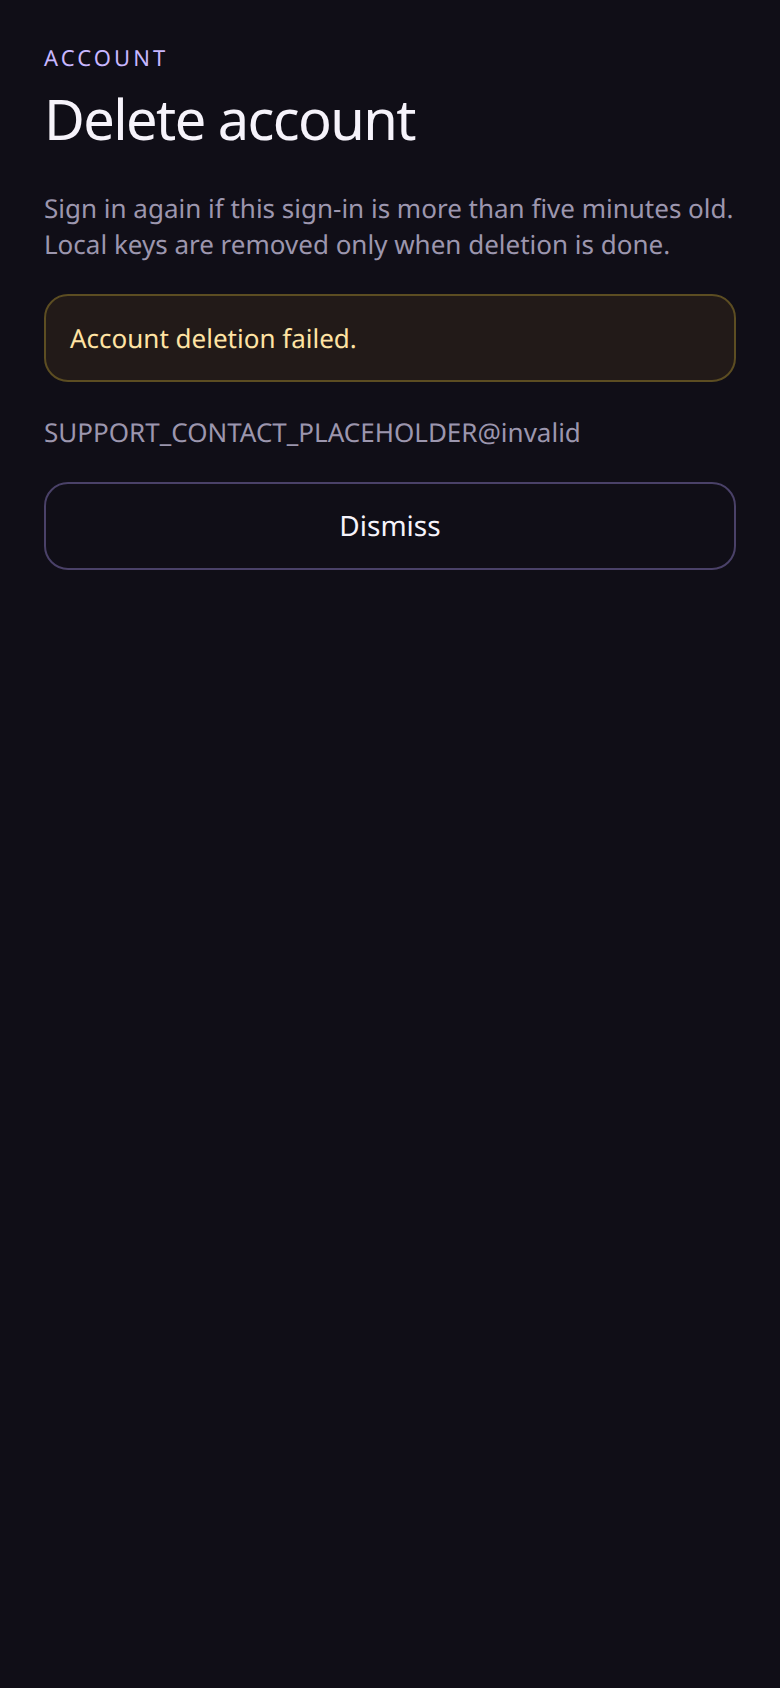
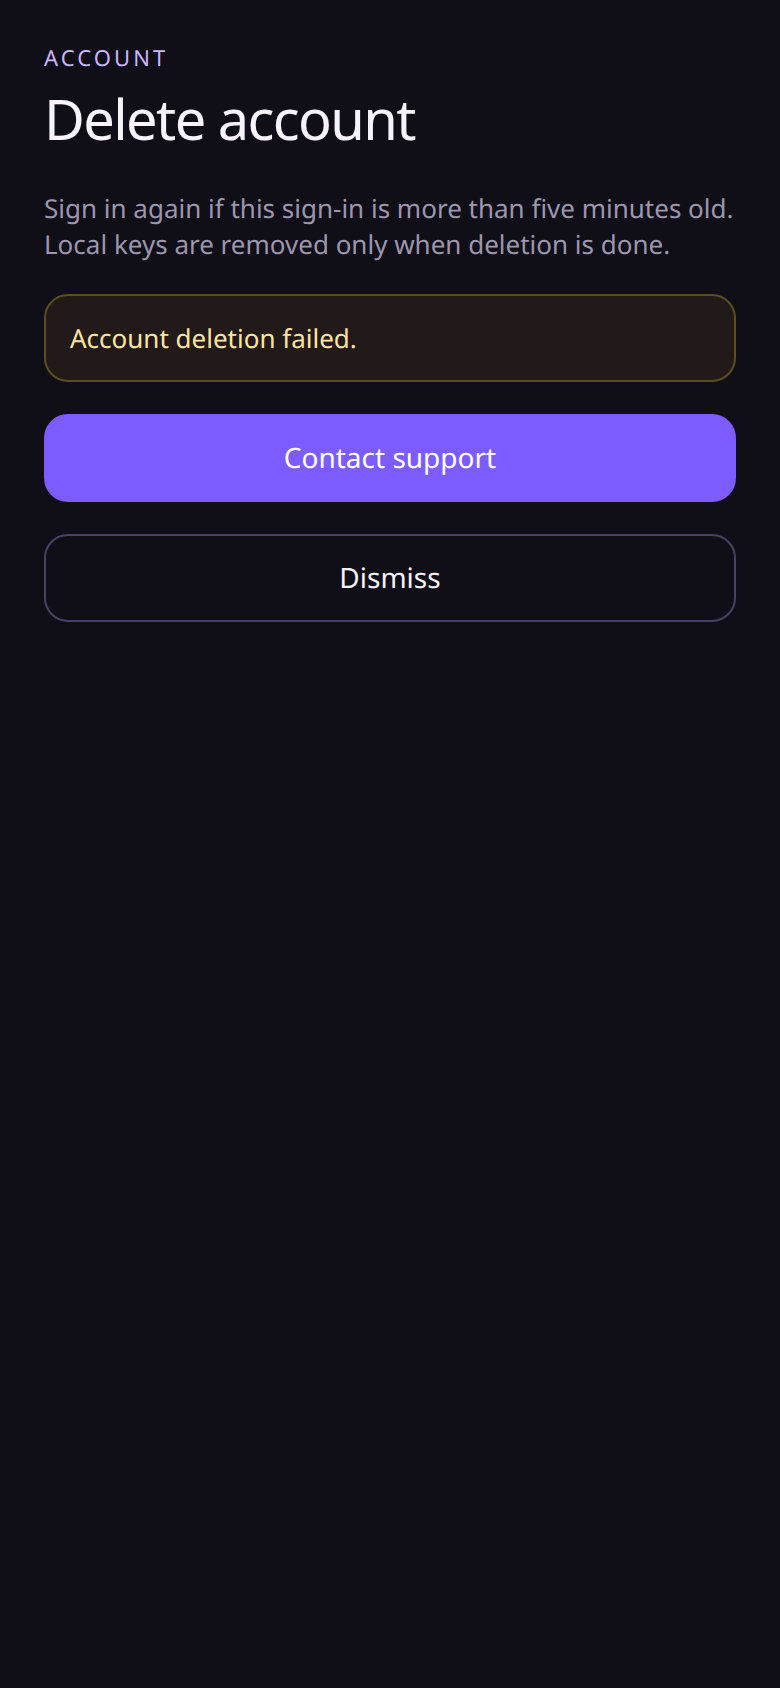
feat: offer Contact support when deletion cannot be retried
The non-retryable screen asks the user to contact support, opens a mailto or URL without showing the placeholder, and keeps Dismiss as the outline action.

Changed region(s): [[0.0308, 0.2464, 0.9538, 0.3697]]

diff --git a/apps/mobile/src/screens.tsx b/apps/mobile/src/screens.tsx
@@ -20,7 +20,7 @@ import {
 } from "@gendragoon/core";
 import { colors, space, type as typeScale } from "@gendragoon/ui/theme";
 import { useState } from "react";
-import { StyleSheet, Text, TextInput, View } from "react-native";
+import { Linking, StyleSheet, Text, TextInput, View } from "react-native";
 import {
   clearSessionOnPollAuthFailure,
   clientRetriesDeletion,
@@ -33,7 +33,7 @@ import {
 import { SAME_ACCOUNT_MESSAGE, sessionMaySwap } from "./account/session";
 import { byoServerFlowReady } from "./byoReady";
 import { ENCRYPTED_WORKSPACE_ENABLED } from "./flags";
-import { SUPPORT_CONTACT } from "./support";
+import { SUPPORT_CONTACT, supportContactTarget } from "./support";
 import { Banner, Button, Screen, Title, cardStyle } from "./ui";
 
 export function workspacesWithUnpaid<T extends { id: string }>(
@@ -401,28 +401,38 @@ interface DeletionNotice {
   reauth: boolean;
   progress: boolean;
   support: boolean;
+  hideSignInHelp: boolean;
+  jobId?: string;
 }
 
 function deletionNotice(kind: "progress" | "retry" | "dismiss" | "reauth" | "missing" | "offline" | "not-retryable"): DeletionNotice {
   if (kind === "progress") {
-    return { message: "Deletion is running.", retry: false, dismiss: false, reauth: false, progress: true, support: false };
+    return { message: "Deletion is running.", retry: false, dismiss: false, reauth: false, progress: true, support: false, hideSignInHelp: false };
   }
   if (kind === "retry") {
-    return { message: "Deletion didn't finish. Retry picks up where it stopped.", retry: true, dismiss: false, reauth: false, progress: false, support: false };
+    return { message: "Deletion didn't finish. Retry picks up where it stopped.", retry: true, dismiss: false, reauth: false, progress: false, support: false, hideSignInHelp: false };
   }
   if (kind === "dismiss") {
-    return { message: "Account deletion failed.", retry: false, dismiss: true, reauth: false, progress: false, support: true };
+    return { message: "Account deletion failed.", retry: false, dismiss: true, reauth: false, progress: false, support: true, hideSignInHelp: false };
   }
   if (kind === "not-retryable") {
-    return { message: "This deletion cannot be retried.", retry: false, dismiss: true, reauth: false, progress: false, support: true };
+    return {
+      message: "We couldn't finish deleting your account. Contact support and we'll complete it for you.",
+      retry: false,
+      dismiss: true,
+      reauth: false,
+      progress: false,
+      support: true,
+      hideSignInHelp: true,
+    };
   }
   if (kind === "reauth") {
-    return { message: "Sign in again. Your last sign-in is older than 5 minutes.", retry: false, dismiss: false, reauth: true, progress: false, support: false };
+    return { message: "Sign in again. Your last sign-in is older than 5 minutes.", retry: false, dismiss: false, reauth: true, progress: false, support: false, hideSignInHelp: false };
   }
   if (kind === "offline") {
-    return { message: "Could not reach the server. Try again.", retry: true, dismiss: true, reauth: false, progress: false, support: false };
+    return { message: "Could not reach the server. Try again.", retry: true, dismiss: true, reauth: false, progress: false, support: false, hideSignInHelp: false };
   }
-  return { message: "The deletion status could not be loaded.", retry: true, dismiss: true, reauth: false, progress: false, support: false };
+  return { message: "The deletion status could not be loaded.", retry: true, dismiss: true, reauth: false, progress: false, support: false, hideSignInHelp: false };
 }
 
 export function DeleteAccountScreen(props: {
@@ -439,13 +449,17 @@ export function DeleteAccountScreen(props: {
   onClearSession?: () => void;
   /** Static frame for screenshots. Live deletion ignores it. */
   frame?: DeletionFrame;
+  /** Job id used in the support mail subject for a static frame. */
+  jobId?: string;
 }) {
   const [step, setStep] = useState<"review" | "confirm">(props.frame === "confirm" ? "confirm" : "review");
-  const [notice, setNotice] = useState<DeletionNotice | null>(props.frame && props.frame !== "confirm" ? deletionNotice(props.frame) : null);
+  const [notice, setNotice] = useState<DeletionNotice | null>(
+    props.frame && props.frame !== "confirm" ? { ...deletionNotice(props.frame), jobId: props.jobId } : null,
+  );
   const blocked = props.activeTransfers > 0;
   function showFailure(error: unknown) {
     if (isDeletionNotRetryableError(error)) {
-      setNotice(deletionNotice("not-retryable"));
+      setNotice({ ...deletionNotice("not-retryable"), jobId: error.jobId });
       return;
     }
     const action = deletionSessionAction(error);
@@ -475,7 +489,7 @@ export function DeleteAccountScreen(props: {
       }
       if (status.status === "failed") {
         const retryable = (status as { retryable?: boolean }).retryable === true;
-        setNotice(deletionNotice(retryable ? "retry" : "dismiss"));
+        setNotice({ ...deletionNotice(retryable ? "retry" : "dismiss"), jobId: status.jobId });
         return;
       }
       props.onError("Account deletion did not finish. Local keys were kept.");
@@ -503,15 +517,28 @@ export function DeleteAccountScreen(props: {
   return (
     <Screen testID="delete-account-screen">
       <Title kicker="Account">Delete account</Title>
-      <Text style={styles.help}>Sign in again if this sign-in is more than five minutes old. Local keys are removed only when deletion is done.</Text>
+      {notice?.hideSignInHelp ? null : (
+        <Text testID="deletion-signin-help" style={styles.help}>Sign in again if this sign-in is more than five minutes old. Local keys are removed only when deletion is done.</Text>
+      )}
       {blocked ? <Banner>Delete account is disabled during transfers.</Banner> : null}
       {notice ? (
         <Banner testID={notice.progress ? "deletion-progress" : "deletion-error"}>{notice.message}</Banner>
       ) : null}
+      {notice?.support && __DEV__ && SUPPORT_CONTACT.isPlaceholder ? (
+        <Text testID="support-placeholder-note" style={styles.devNote}>placeholder contact</Text>
+      ) : null}
       {notice?.retry ? <Button label="Retry" testID="deletion-retry" onPress={() => void retry()} /> : null}
       {notice?.reauth ? <Button label="Sign in again" testID="deletion-reauth" onPress={props.onReauth} /> : null}
       {notice?.support ? (
-        <Text accessibilityRole="link" testID="deletion-support" style={styles.help}>{SUPPORT_CONTACT.value}</Text>
+        <Button
+          label="Contact support"
+          testID="contact-support"
+          accessibilityLabel="Contact support"
+          onPress={() => {
+            const jobId = notice.jobId ?? "";
+            void Linking.openURL(supportContactTarget(SUPPORT_CONTACT.value, jobId));
+          }}
+        />
       ) : null}
       {notice?.dismiss ? <Button label="Dismiss" tone="ghost" testID="deletion-dismiss" onPress={() => void dismiss()} /> : null}
       {!notice && step === "review" ? (
@@ -548,6 +575,7 @@ export function SettingsHome(props: {
 
 const styles = StyleSheet.create({
   help: { color: colors.muted, fontSize: typeScale.helpSize },
+  devNote: { color: colors.muted, fontSize: 12 },
   category: { color: colors.text, fontSize: typeScale.bodySize },
   soon: { color: colors.muted, fontSize: typeScale.helpSize },
   input: {

diff --git a/apps/mobile/test/deletion-fixtures.test.tsx b/apps/mobile/test/deletion-fixtures.test.tsx
@@ -5,10 +5,11 @@ import {
   workspaceKeyId,
 } from "@gendragoon/core";
 import { fireEvent, render, waitFor } from "@testing-library/react-native";
+import { Linking } from "react-native";
 import { clearSessionOnPollAuthFailure, deletionSessionAction, deleteSignedInAccount, savedDeletionUid } from "../src/account/deleteAccount";
 import { sessionTokenAfterAuthFailure } from "../src/account/session";
 import { DeleteAccountScreen } from "../src/screens";
-import { SUPPORT_CONTACT } from "../src/support";
+import { SUPPORT_CONTACT, supportContactTarget } from "../src/support";
 import { loadFixture } from "./loadFixture";
 
 function idToken(sub = "user-1"): string {
@@ -159,7 +160,8 @@ describe("deletion fixtures", () => {
     await waitFor(() => expect(screen.queryByTestId("deletion-dismiss")).not.toBeNull());
     expect(screen.queryByTestId("deletion-retry")).toBeNull();
     expect(screen.getByText("Account deletion failed.")).toBeTruthy();
-    expect(screen.getByTestId("deletion-support")).toHaveTextContent(SUPPORT_CONTACT.value);
+    expect(screen.getByLabelText("Contact support")).toBeTruthy();
+    expect(screen.queryByText(SUPPORT_CONTACT.value)).toBeNull();
   });
 
   it.failing("failed with retryable true keeps the job and the repeat DELETE resumes it", async () => {
@@ -469,6 +471,40 @@ describe("deletion fixtures", () => {
     expect(SUPPORT_CONTACT).toEqual({ value: "SUPPORT_CONTACT_PLACEHOLDER@invalid", isPlaceholder: true });
   });
 
+  it("not-retryable deletion asks the user to contact support and hides the sign-in helper", async () => {
+    const jobId = "22222222-2222-4222-8222-000000000004";
+    const openURL = jest.spyOn(Linking, "openURL").mockResolvedValue(undefined as never);
+    const screen = await render(
+      <DeleteAccountScreen
+        frame="not-retryable"
+        jobId={jobId}
+        activeTransfers={0}
+        secrets={new MemorySecretStore()}
+        workspaceIds={["ws-1"]}
+        idToken=""
+        client={clientFor(async () => responseFor(500, {}, "application/json"))}
+        onReauth={() => undefined}
+        onSignedOut={() => undefined}
+        onDone={() => undefined}
+        onError={() => undefined}
+      />,
+    );
+    expect(screen.getByText("We couldn't finish deleting your account. Contact support and we'll complete it for you.")).toBeTruthy();
+    expect(screen.queryByTestId("deletion-signin-help")).toBeNull();
+    expect(screen.queryByText(SUPPORT_CONTACT.value)).toBeNull();
+    expect(screen.getByTestId("deletion-dismiss")).toBeTruthy();
+    const contact = screen.getByTestId("contact-support");
+    expect(contact.props.accessibilityLabel).toBe("Contact support");
+    fireEvent.press(contact);
+    expect(openURL).toHaveBeenCalledWith(supportContactTarget(SUPPORT_CONTACT.value, jobId));
+    if (__DEV__ && SUPPORT_CONTACT.isPlaceholder) {
+      expect(screen.getByText("placeholder contact")).toBeTruthy();
+    } else {
+      expect(screen.queryByText("placeholder contact")).toBeNull();
+    }
+    openURL.mockRestore();
+  });
+
   it("Retry calls retryDeletion when core provides it and does not send DELETE", async () => {
     const accepted = loadFixture<AcceptedBody>("account-deletion/accepted.json");
     const failed = loadFixture<StatusBody>("account-deletion/status-failed.json");
@@ -574,8 +610,9 @@ describe("deletion fixtures", () => {
     await waitFor(() => expect(screen.queryByTestId("delete-account-confirm")).not.toBeNull());
     fireEvent.press(screen.getByTestId("delete-account-confirm"));
     await waitFor(() => expect(screen.queryByTestId("deletion-dismiss")).not.toBeNull());
-    expect(screen.getByTestId("deletion-support")).toHaveTextContent(SUPPORT_CONTACT.value);
-    expect(screen.getByText("This deletion cannot be retried.")).toBeTruthy();
+    expect(screen.getByLabelText("Contact support")).toBeTruthy();
+    expect(screen.queryByText(SUPPORT_CONTACT.value)).toBeNull();
+    expect(screen.getByText("We couldn't finish deleting your account. Contact support and we'll complete it for you.")).toBeTruthy();
     expect(screen.queryByTestId("deletion-retry")).toBeNull();
     expect(await textOf(secrets, "account-deletion:job-id")).toBe(jobId);
     expect(await secrets.get(workspaceKeyId("ws-1"))).toEqual(new Uint8Array([8]));

diff --git a/apps/mobile/src/support.ts b/apps/mobile/src/support.ts
@@ -1,2 +1,11 @@
 /** TODO: delete this shim on rebase onto PR #1 and import { SUPPORT_CONTACT } from "@gendragoon/core". */
 export const SUPPORT_CONTACT: { value: string; isPlaceholder: boolean } = { value: "SUPPORT_CONTACT_PLACEHOLDER@invalid", isPlaceholder: true };
+
+/** An address with @ and no scheme is mailed. Anything else is opened as a URL. */
+export function supportContactTarget(value: string, jobId: string): string {
+  if (/^[^\s@]+@[^\s@]+$/.test(value)) {
+    const subject = encodeURIComponent(`Account deletion ${jobId}`);
+    return `mailto:${value}?subject=${subject}`;
+  }
+  return value;
+}

diff --git a/apps/mobile/test/support.test.ts b/apps/mobile/test/support.test.ts
@@ -1,0 +1,15 @@
+import { supportContactTarget } from "../src/support";
+
+describe("support contact target", () => {
+  it("mails an email address with the deletion job in the subject", () => {
+    expect(supportContactTarget("help@example.com", "job-4")).toBe(
+      "mailto:help@example.com?subject=Account%20deletion%20job-4",
+    );
+  });
+
+  it("opens a URL unchanged", () => {
+    expect(supportContactTarget("https://support.example.test/account", "job-4")).toBe(
+      "https://support.example.test/account",
+    );
+  });
+});

diff --git a/apps/mobile/src/shots.tsx b/apps/mobile/src/shots.tsx
@@ -125,6 +125,7 @@ export function ShotFrame(props: { id: ShotId }) {
         {frame ? (
           <DeleteAccountScreen
             frame={frame}
+            jobId={frame === "not-retryable" ? "22222222-2222-4222-8222-000000000004" : undefined}
             activeTransfers={0}
             secrets={secrets}
             workspaceIds={[WORKSPACE_ID]}
